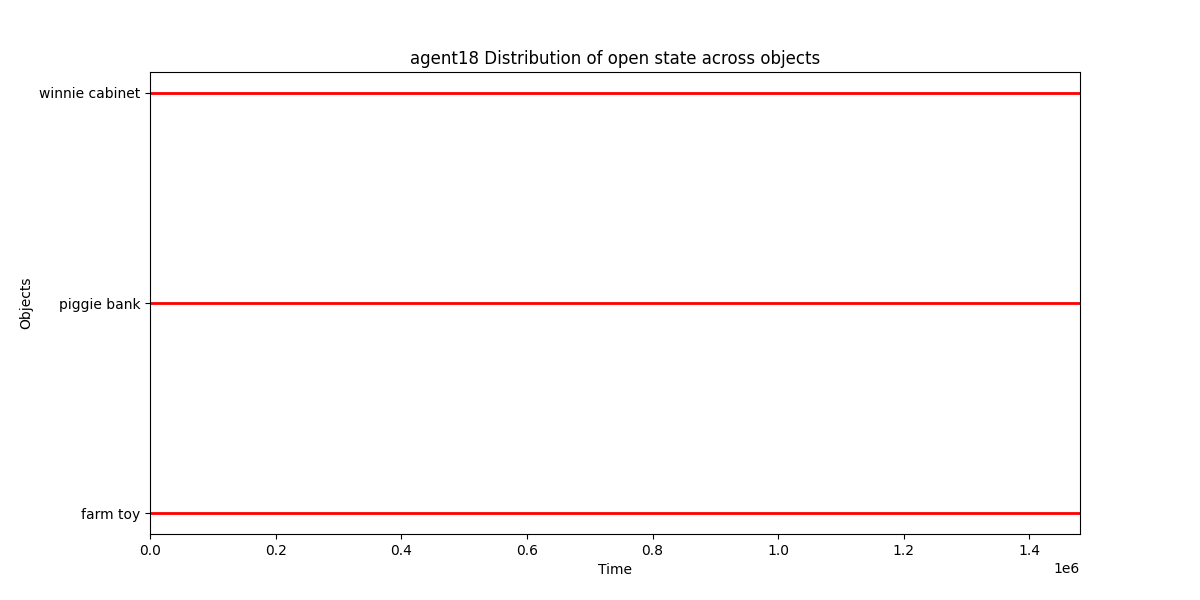
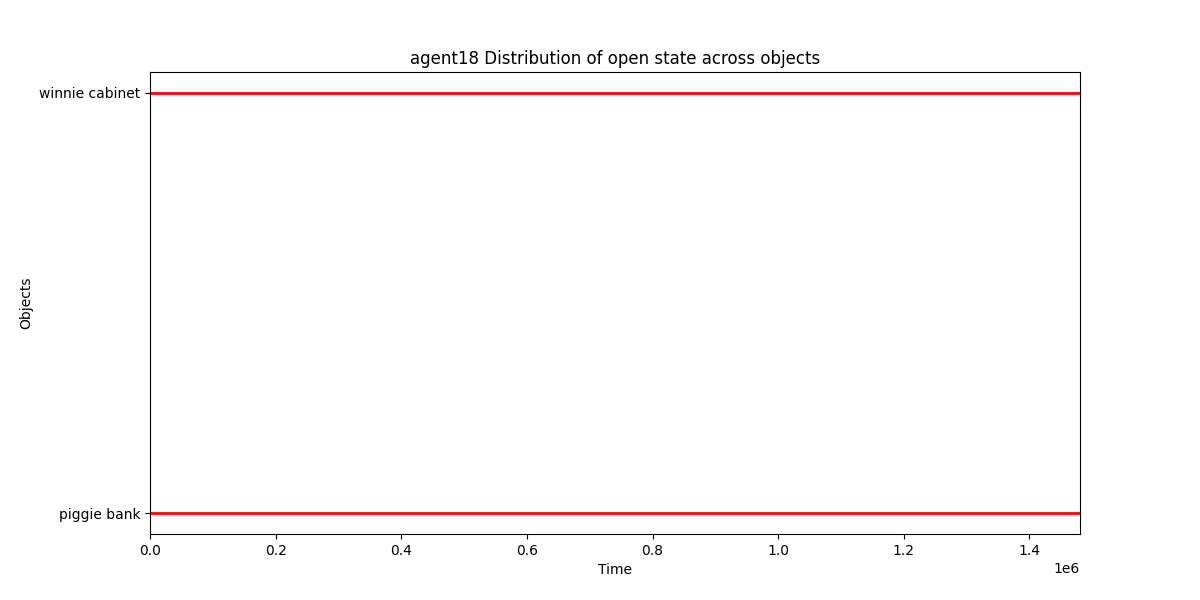
converted farmtoy open to popup

Changed region(s): [[0.0617, 0.48, 0.8942, 0.54], [0.0308, 0.84, 0.1233, 0.87]]

diff --git a/post_process.py b/post_process.py
@@ -16,6 +16,11 @@ for i, session in enumerate(unique_sessions, start=1):
 for i in range(1, len(unique_sessions) + 1):
     original_obj_states = INITIAL_STATES.copy()
     post_processed_obj_states = get_state_distribution(globals()[f'agent{i}'], original_obj_states)
+    # Convert open states to popup states for farm toy
+    if 'f' in post_processed_obj_states and 'open' in post_processed_obj_states['f']:
+        open_states = post_processed_obj_states['f']['open']
+        post_processed_obj_states['f']['popup'].extend(open_states)
+        post_processed_obj_states['f'].pop('open')
     # Save post processed states to file in states folder
     with open(f'states/agent{i}_states.pkl', 'wb') as f:
         pickle.dump(post_processed_obj_states, f)

diff --git a/plots.py b/plots.py
@@ -35,6 +35,10 @@ for agent_file in os.listdir('states'):
         
     agent_num = agent_file.split('_')[0]
     
+    # Skip averaged agent
+    if agent_num == 'averaged':
+        continue
+    
     # Create agent directory if it doesn't exist
     agent_dir = os.path.join('plots', agent_num)
     if not os.path.exists(agent_dir):
@@ -78,6 +82,7 @@ for agent_file in os.listdir('states'):
                 # Get state values and times
                 values = states[state_type]
                 current_state = False
+                
                 
                 # Start with False state at time 0
                 plt.hlines(y=y_pos, xmin=0, xmax=values[0][1], color='red', linewidth=2)

diff --git a/dashboard.py b/dashboard.py
@@ -9,7 +9,7 @@ def display_dashboard():
     st.header('Notes')
     st.markdown("""
     - Broom and alligator busy box can make noise in data
-    - Farm toy has open state 
+    - Farm toy has open state but converted to popup in post processing
     - Alligator busy box can be mouthed
     - Music toy alligator can be a hitter
     """)
